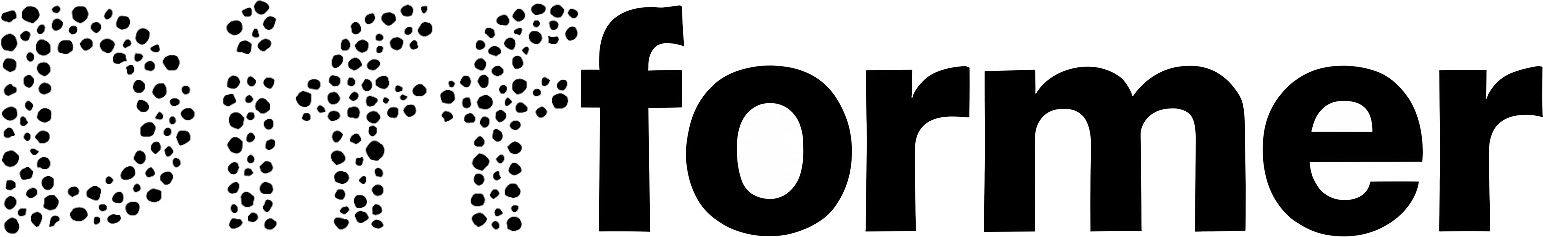
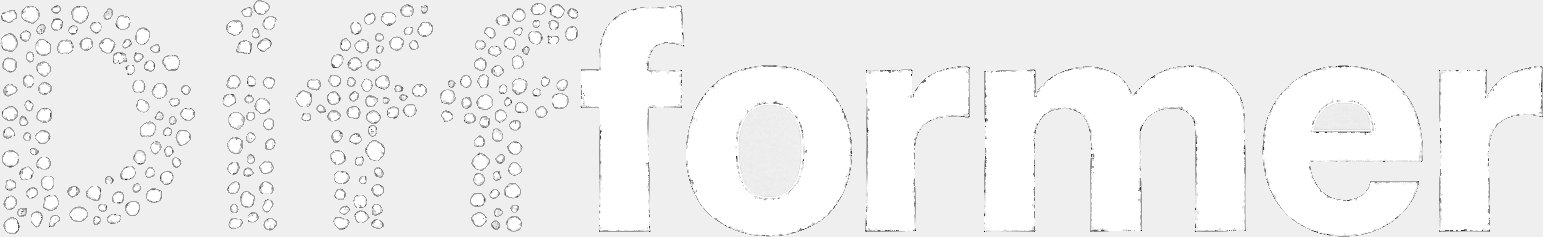
Ugh, themes

diff --git a/README.md b/README.md
@@ -2,7 +2,7 @@
   <picture>
     <source srcset="assets/diffformer-dark.png" media="(prefers-color-scheme: dark)">
     <source srcset="assets/diffformer-light.png" media="(prefers-color-scheme: light)">
-    <img src="assets/diffformer_light.png" alt="Diffformer Logo" width="300">
+    <img src="assets/diffformer_dark.png" alt="Diffformer Logo" width="300">
   </picture>
 </p>
 
